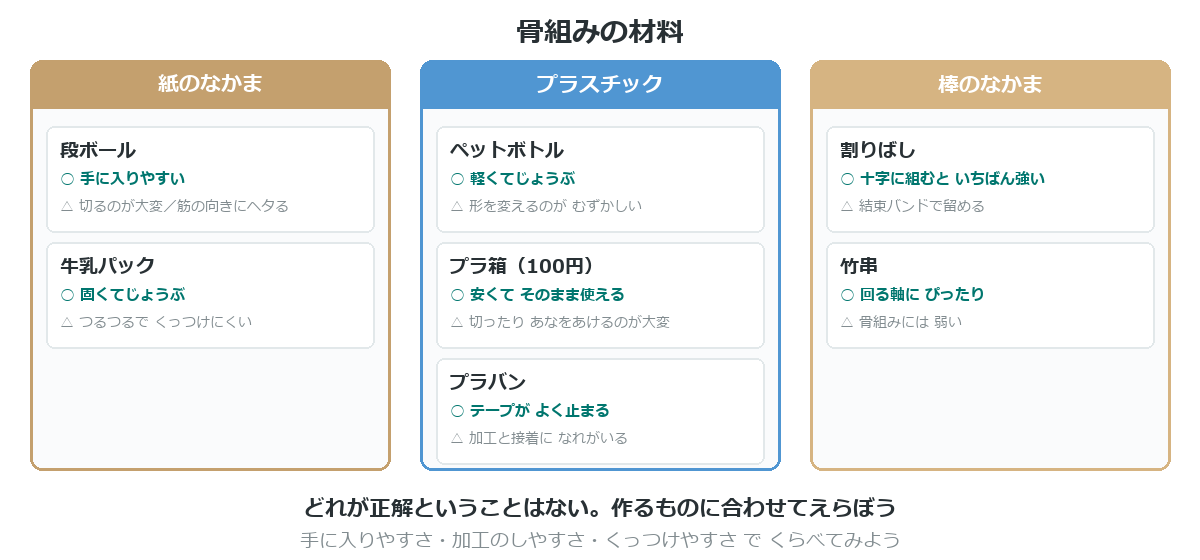
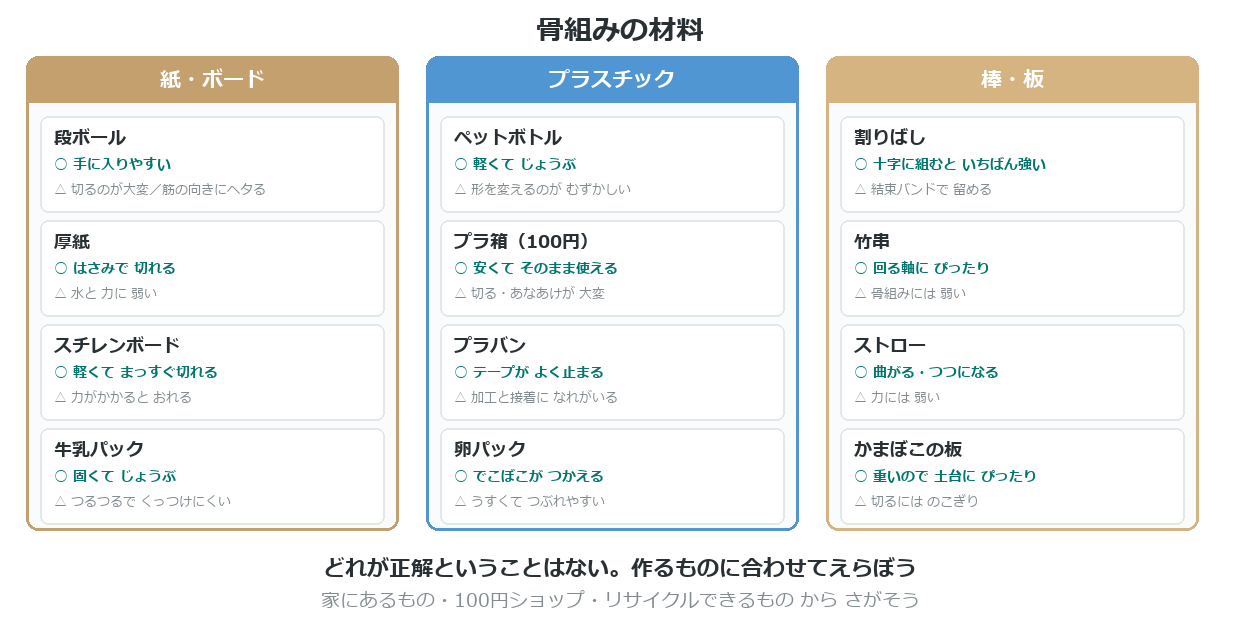
骨組みの材料を12種にふやし、p3 と p5 をそろえた
紙・ボードに厚紙とスチレンボード、プラスチックに卵パック、
棒・板にストローとかまぼこの板を追加。3グループ×4種にした。

かまぼこの板は「重いので土台に向く」とし、p5 の
「土台が うでに負ける」への答えの1つとして位置づけた。

材料は p3_parts（箇条書き＋⑤への誘導）と p5_frame（materials.png）の
両方で扱っているので、どちらも同じ12種にそろえてある。

Changed region(s): [[0.0, 0.0304, 0.9867, 1.0]]

diff --git a/docs/p3_parts/index.html b/docs/p3_parts/index.html
@@ -62,13 +62,13 @@
 # 工作の材料
 骨組みになるものは、家にあるもので足りることが多いよ。
 
-- 紙のなかま … 段ボール・牛乳パック
-- プラスチック … ペットボトル・プラ箱・プラバン
-- 棒のなかま … 割りばし・竹串
+- 紙・ボード … 段ボール・厚紙・スチレンボード・牛乳パック
+- プラスチック … ペットボトル・プラ箱・プラバン・卵パック
+- 棒・板 … 割りばし・竹串・ストロー・かまぼこの板
 
 > えらび方は、⑤「骨格をつくろう」にまとめてあるよ。
 
-> **100円ショップを歩く**と、思いつかなかった材料が見つかる。
+> **すてる前のもの**が、いちばんの材料になることも多いんだ。
 
 ---
 

diff --git a/docs/p5_frame/index.html b/docs/p5_frame/index.html
@@ -71,7 +71,7 @@
 
 # 材料をえらぶ
 
-![紙・プラスチック・棒。手に入りやすさと加工のしやすさでえらぶ](image/index/materials.png)
+![紙・ボード／プラスチック／棒・板。手に入りやすさと加工のしやすさでえらぶ](image/index/materials.png)
 
 ---
 

diff --git a/CURRICULUM.md b/CURRICULUM.md
@@ -229,11 +229,13 @@ e6_project を1章で扱うには大きすぎるため、**新セクション「
 
 ### p5 骨格 ─ 材料と留め方の知見
 
-**紙のなかま**
+**紙・ボード**
 
 | 材料 | 長所 | 短所 |
 |---|---|---|
 | 段ボール | 手に入りやすい | **切断が難しい／筋方向にヘタる** |
+| 厚紙 | はさみで切れる | 水と力に弱い |
+| スチレンボード | 軽く、カッターでまっすぐ切れる | 力がかかると折れる |
 | 牛乳パック | 固い | **つるつるで接着しにくい** |
 
 **プラスチック**
@@ -243,13 +245,19 @@ e6_project を1章で扱うには大きすぎるため、**新セクション「
 | ペットボトル | 軽くてじょうぶ | 形の加工が難しい |
 | プラ箱（100円ショップ） | 安価で そのまま使える | 切る・穴あけが難しい |
 | プラバン | **テープがよく止まる** | 加工と接着に慣れが要る |
+| 卵パック | でこぼこが そのまま使える | 薄くてつぶれやすい |
 
-**棒のなかま**
+**棒・板**
 
 | 材料 | 長所 | 短所 |
 |---|---|---|
 | **割りばし ＋ 結束バンドで十字** | **構造材として最強** | — |
 | 竹串 | **回転軸に良い** | 構造材には弱い |
+| ストロー | 曲がる・筒として使える | 力には弱い |
+| かまぼこの板 | **重いので土台に向く**（p5 の「土台が うでに負ける」への答えの1つ） | 切るにはのこぎり |
+
+3グループ×4種の計12種。**どれが最適とは書かない**方針（作品編は「経験にもとづく選択肢」）。
+p3_parts は同じ3グループを箇条書きで挙げて p5 に誘導、p5_frame が `materials.png` で詳細を持つ。
 
 | 留め方 | 長所 | 短所 |
 |---|---|---|
